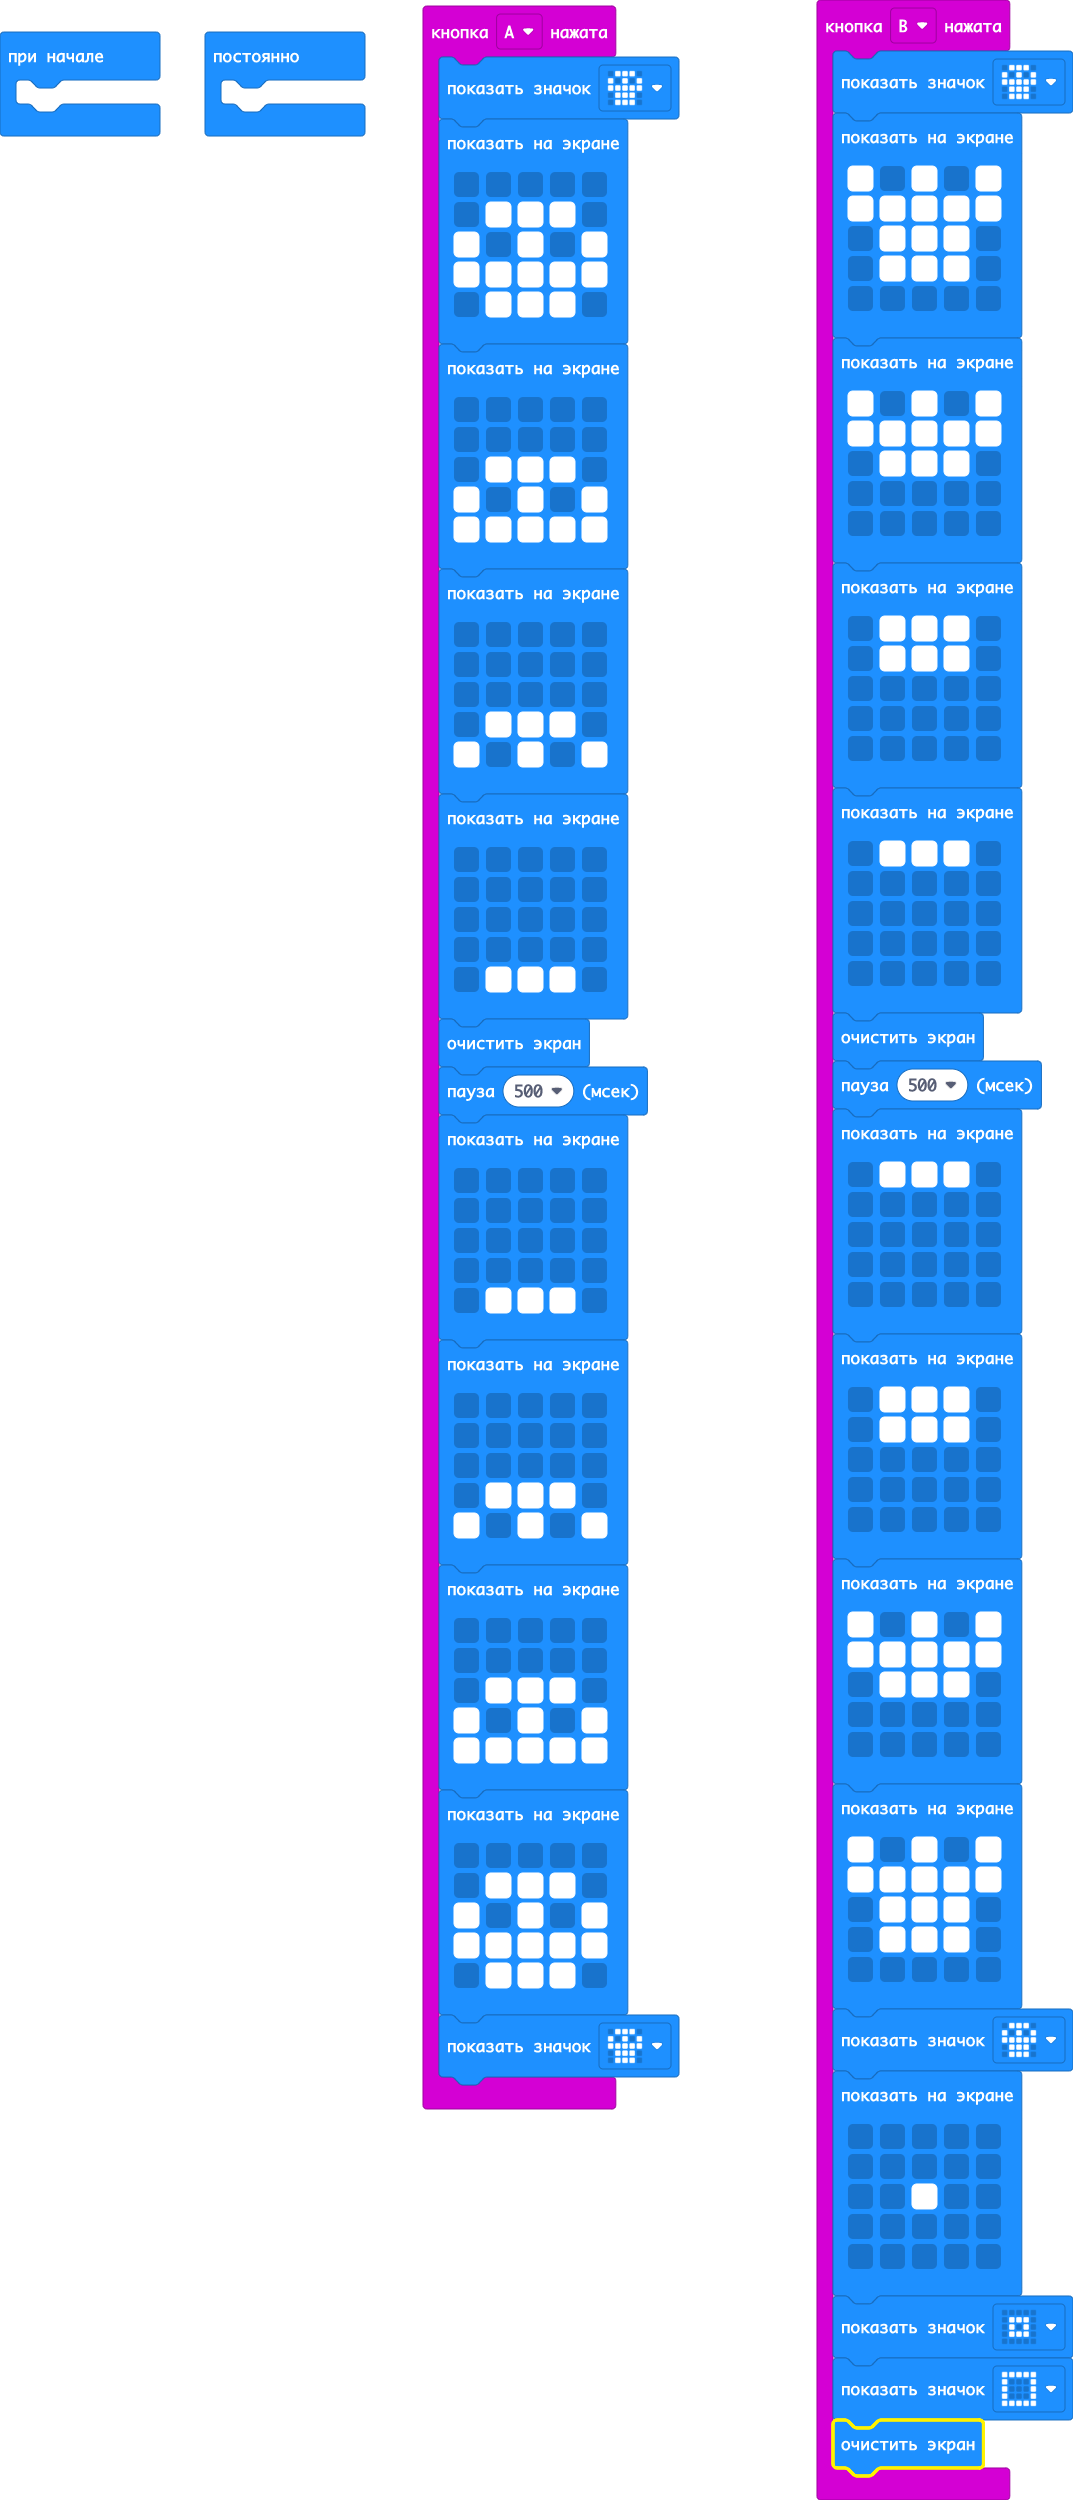
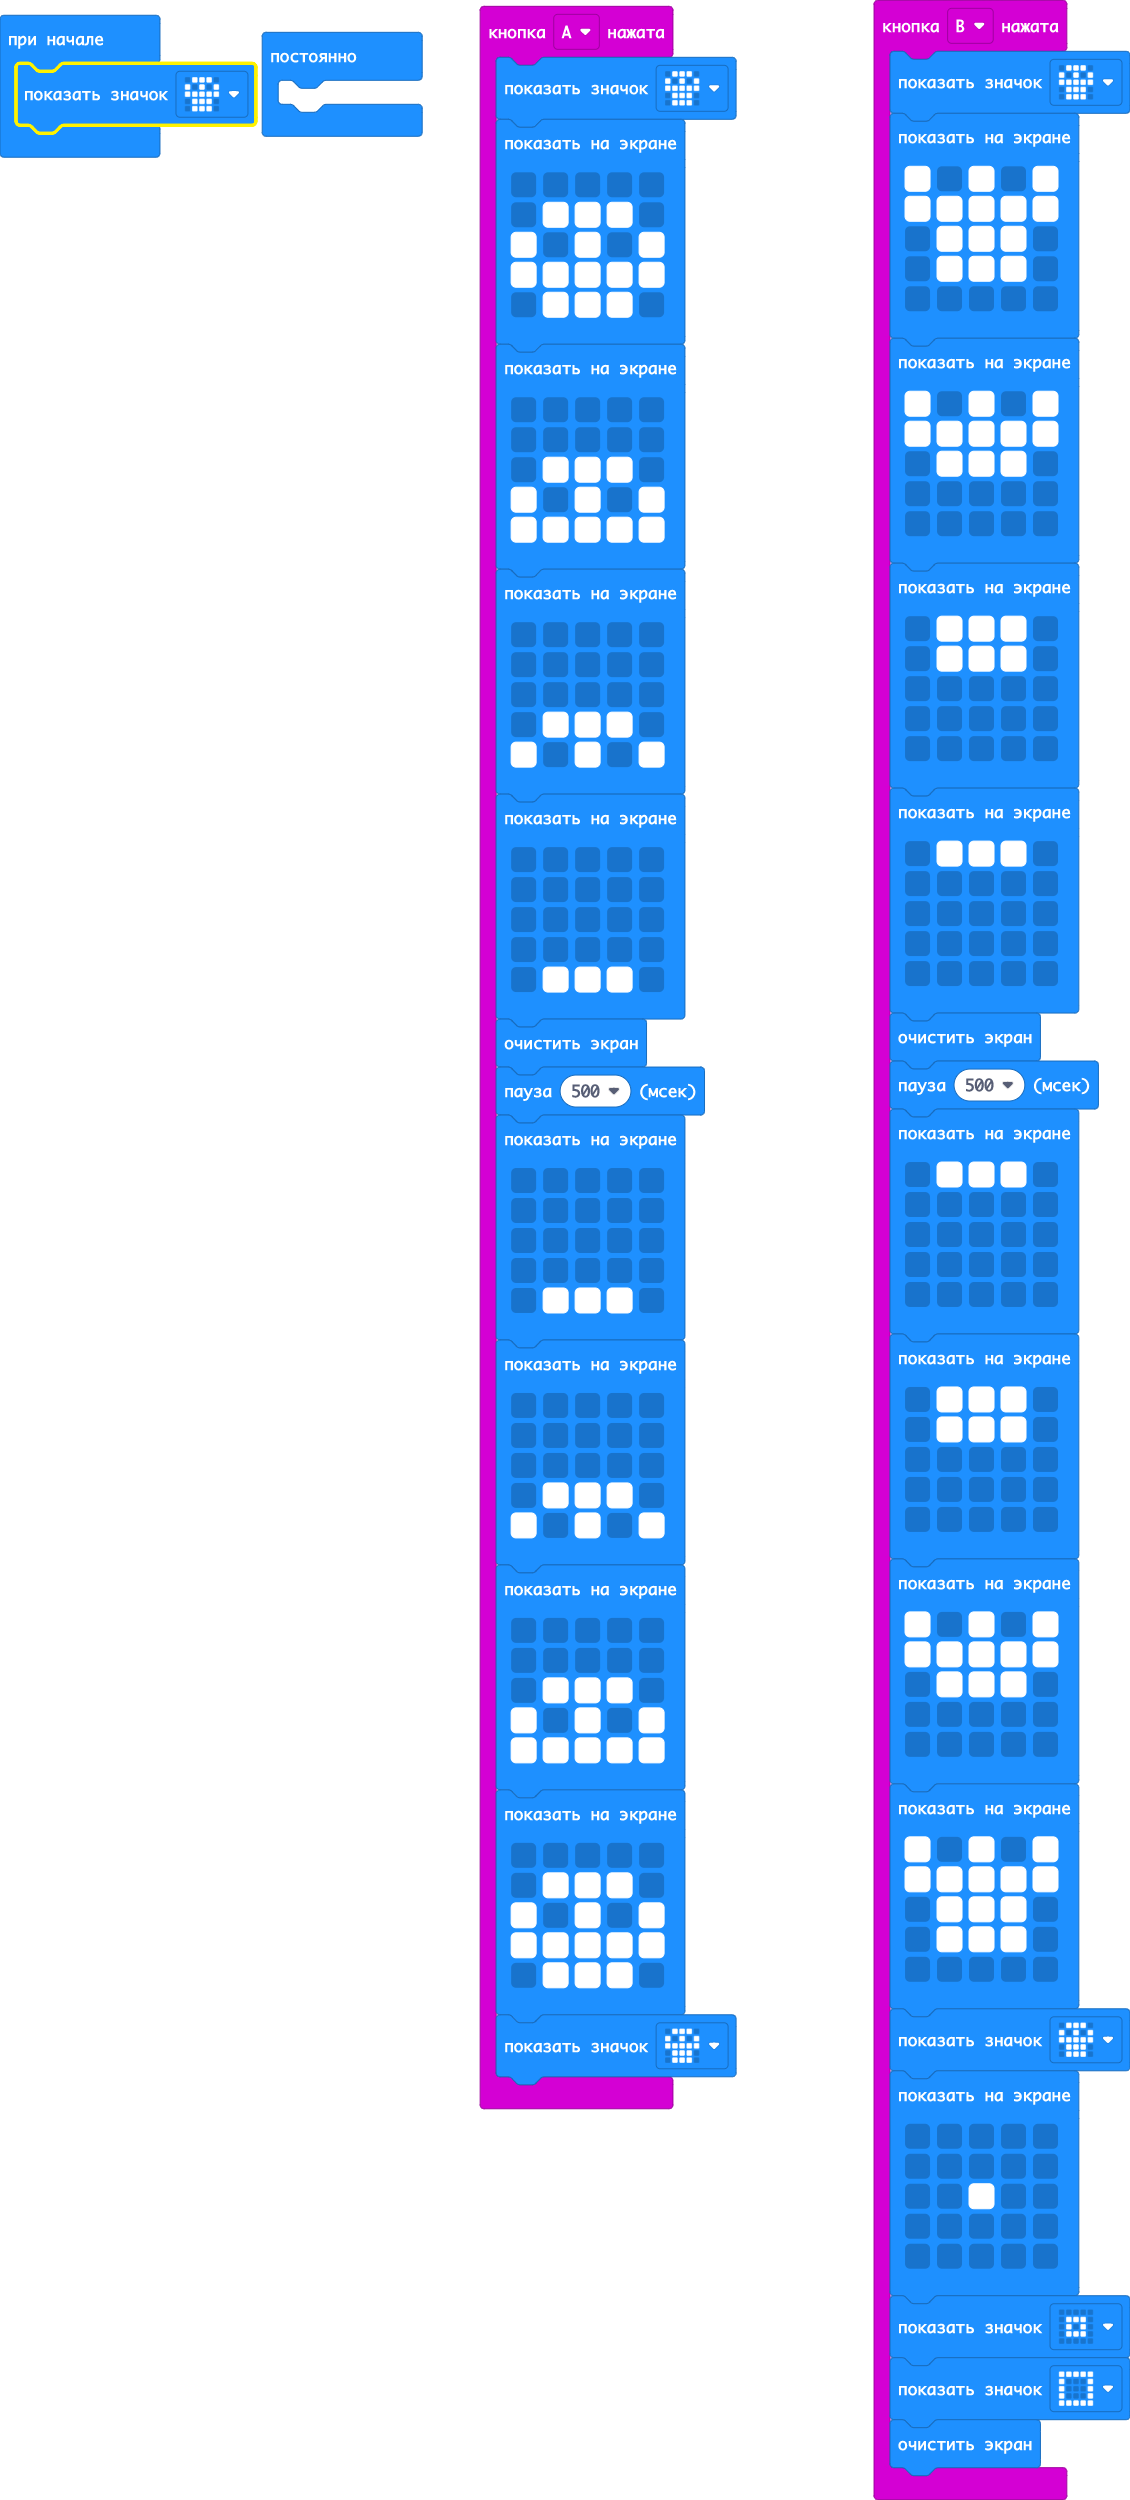
Обновить main.blocks, main.ts

diff --git a/main.ts b/main.ts
@@ -132,6 +132,7 @@ input.onButtonPressed(Button.B, function () {
     basic.showIcon(IconNames.Square)
     basic.clearScreen()
 })
+basic.showIcon(IconNames.Skull)
 basic.forever(function () {
 	
 })
